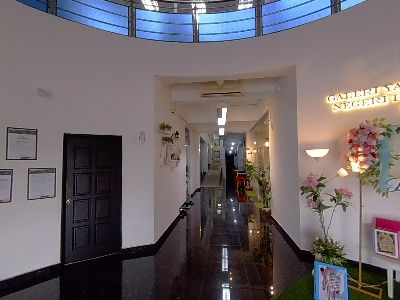
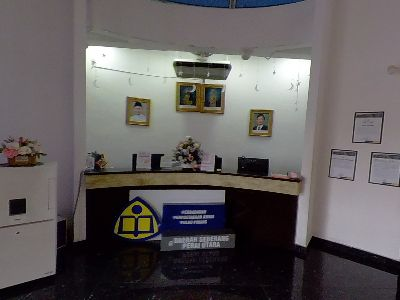
feat: Add Cafe zone to BT branch and move scene 3 into it

diff --git a/locations/bt/bt-f1-lobby.js b/locations/bt/bt-f1-lobby.js
@@ -20,7 +20,7 @@ export default [
       {
         nodeId: 'bt-f1-lobby-3',
         position: { yaw: '95.59deg', pitch: '0deg' },
-        name: 'Go to Floor 1 - Lobby 3',
+        name: 'Go to Floor 1 - Cafe',
       },
       {
         nodeId: 'bt-f1-lobby-2',
@@ -288,8 +288,8 @@ export default [
   {
 
     id: 'bt-f1-lobby-3',
-    name: 'Floor 1 - Lobby 3',
-    caption: 'BT - Floor 1 - Lobby 3',
+    name: 'Floor 1 - Cafe',
+    caption: 'BT - Floor 1 - Cafe',
     panorama: './images/bt/f1-lobby/bt-f1-lobby-3.jpg',
     thumbnail: './images/bt/f1-lobby/thumbs/bt-f1-lobby-3.jpg',
     defaultYaw: '0deg',

diff --git a/js/tour-config.js b/js/tour-config.js
@@ -68,6 +68,7 @@ export const branches = [
         category: 'Floor 1',
         items: [
           { label: 'Lobby', sceneId: 'bt-f1-lobby-1' },
+          { label: 'Cafe', sceneId: 'bt-f1-lobby-3' },
           { label: 'TYT', sceneId: 'bt-f1-tyt-1' },
           { label: 'Kawasan Kanak-kanak', sceneId: 'bt-f1-kids-1' }
         ]

diff --git a/locations/bt/bt-stairs-front.js b/locations/bt/bt-stairs-front.js
@@ -12,7 +12,7 @@ export default [
     links: [{
       nodeId: 'bt-f1-lobby-3',
         position: { yaw: '5.24deg', pitch: '0deg' },
-        name: 'Go to Floor 1 - Lobby 3',
+        name: 'Go to Floor 1 - Cafe',
     }, {
       nodeId: 'bt-f2-reading-21',
         position: { yaw: '92.18deg', pitch: '0deg' },
